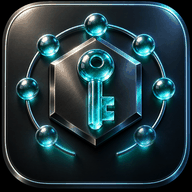
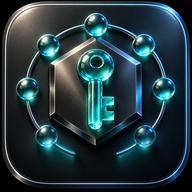
Auch hier RGBA statt Farbpalette — sonst installiert Android nichts (#49)
Dieselbe Ursache wie in der Werkstatt (Kimhub #172): mein Kompressions-Schritt
von heute Abend hat die Symbole auf 256 Farben reduziert, PNG-Farbtyp 3. Klaus'
Tablet meldete danach „wird installiert" und legte nichts an. Vorher, mit RGBA,
ging es — das ist der einzige gemessene Unterschied.

Alle vier Symbole jetzt RGBA. Das maskierbare ist eine eigene Datei mit
Sicherheitsabstand, die zwei 512er sind aus dem Offline-Vorrat raus (sie
werden nur beim Installieren gebraucht, und dabei ist das Gerät online).

Kopie neu gezogen aus Kimhub 0367acc, Fingerabdruck und Herkunft nachgezogen.

Gemessen: npm test 23 grün, 0 ROT, 0 nicht lauffähig.
CACHE_VERSION v48 → v49.

Claude-Session: https://claude.ai/code/session_01Sc2MfhK8M5CXaCLzUmJ9MP

diff --git a/sw.js b/sw.js
@@ -25,7 +25,7 @@
    nur noch die eigenen Vorräte weg. Ohne den Bump lieferte der Worker die
    alte `ansicht.js` weiter — und die löscht jeden Vorrat des Ursprungs,
    also auch den der Werkstatt und der dreissig Geschwister-Apps. */
-var CACHE_VERSION = "kim-hub-company-v48";
+var CACHE_VERSION = "kim-hub-company-v49";
 
 /* ⚠ NUR EIGENE VORRAETE AUFRAEUMEN — `caches` gehoert dem URSPRUNG, nicht dem
  * Pfad. Auf lausiklauskn-png.github.io liegen rund zwanzig Apps; ein Filter,
@@ -48,7 +48,12 @@ var SCHALE = [
   "./schicht/plan-form.mjs",
   "./schicht/umfang.mjs",
   "./schicht/grundsaetze.md", "./schicht/mitarbeiter.json",
-  "./icons/kimhub-96.png", "./icons/kimhub-192.png", "./icons/kimhub-512.png",
+  /* ⚠ NUR DIE KLEINEN (2026-09-08). Die 512er stehen im Manifest, aber NICHT
+     hier: sie werden ausschliesslich beim Installieren gebraucht, und dabei
+     ist das Geraet ohnehin online. Als RGBA wiegen sie zusammen 660 KB — das
+     holte jeder Besucher beim ersten Aufruf mit, fuer ein Bild, das im
+     laufenden Betrieb niemand sieht. */
+  "./icons/kimhub-96.png", "./icons/kimhub-192.png",
 ];
 
 self.addEventListener("install", function (e) {
